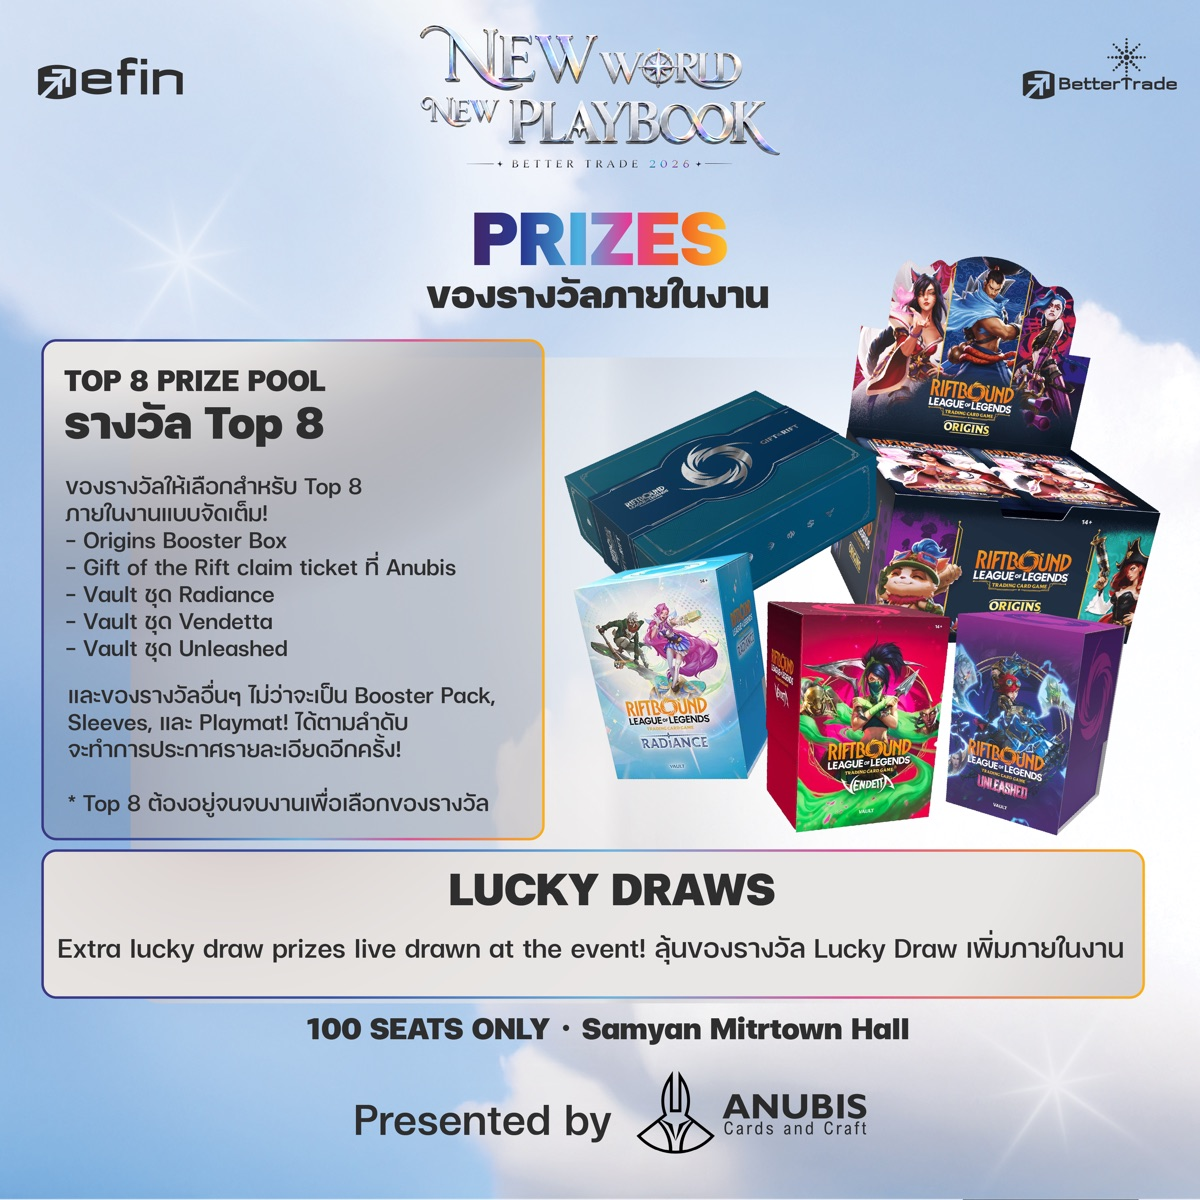
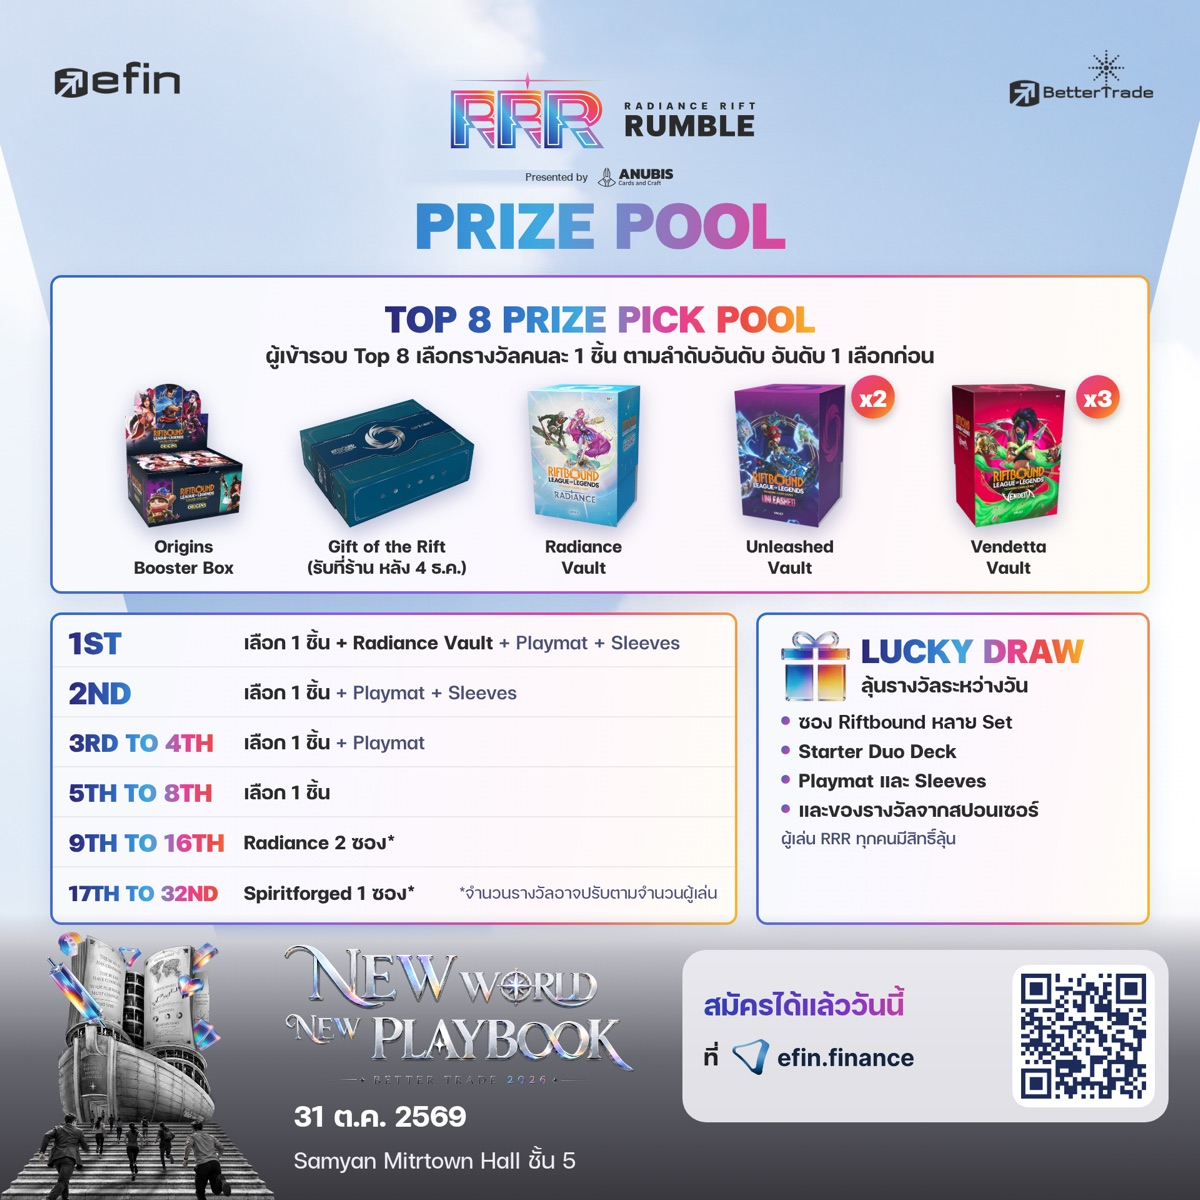
RRR prize pool and venue, Card and Collectibles Carnival vendor call, Gym Battle Oct 12

diff --git a/index.html b/index.html
@@ -190,6 +190,22 @@
   @media (max-width: 960px) { .rrr-grid { grid-template-columns: 1fr; } .rrr-gal { max-width: 560px; } }
   @media (max-width: 560px) { .rrr-facts { grid-template-columns: repeat(2, minmax(0, 1fr)); } .rrr .btns .btn { width: 100%; justify-content: center; } }
 
+  /* ---------- CCC (Card & Collectibles Carnival), inside the RRR band ---------- */
+  .ccc { margin-top: clamp(40px, 6vw, 80px); padding-top: clamp(32px, 5vw, 64px); border-top: 1px solid rgb(255 255 255 / .16); display: grid; grid-template-columns: minmax(0, 1.05fr) minmax(0, .95fr); gap: clamp(24px, 4vw, 64px); align-items: start; }
+  .ccc-logo { display: block; width: min(100%, 340px); height: auto; margin: 0 0 20px; }
+  .ccc h3 { font: 800 clamp(26px, 3.4vw, 44px)/1.05 var(--display); margin: 0 0 14px; color: #fff; }
+  .ccc h3 em { font-style: normal; background: var(--rrr-holo); -webkit-background-clip: text; background-clip: text; color: transparent; }
+  .ccc-vendor { margin-top: 24px; padding: 20px; border-radius: 16px; background: #171B45; border: 1px solid rgb(255 255 255 / .16); }
+  .ccc-vendor h4 { font: 700 18px/1.2 var(--body); margin: 0 0 4px; color: #fff; }
+  .ccc-vendor .big { font: 700 26px/1.1 var(--mono); color: #fff; margin: 8px 0 12px; }
+  .ccc-vendor .big small { font: 400 13px/1.3 var(--body); color: #B9BFEA; display: block; margin-top: 4px; }
+  .ccc-vendor .rrr-get { margin-bottom: 16px; font-size: 14px; }
+  .ccc-pics { display: grid; grid-template-columns: 1fr 1fr; gap: 12px; }
+  .ccc-pics a { display: block; border-radius: 14px; overflow: hidden; padding: 2px; background: var(--rrr-holo); }
+  .ccc-pics img { display: block; width: 100%; height: auto; aspect-ratio: 1 / 1; object-fit: cover; border-radius: 12px; }
+  @media (max-width: 960px) { .ccc { grid-template-columns: 1fr; } .ccc-pics { max-width: 560px; } }
+  @media (max-width: 560px) { .ccc .btns .btn { width: 100%; justify-content: center; } }
+
   /* ---------- hero ---------- */
   .hero { position: relative; overflow: hidden; overflow: clip; contain: paint; }
   .hero::before {
@@ -773,7 +789,7 @@ c-21 -9 -479 -194 -1017 -413 l-979 -397 -337 -1570 c-185 -863 -335 -1574
 
 <div class="ticker" aria-hidden="true">
   <div class="ticker-track" id="ticker">
-    <span>Magic: The Gathering</span><span class="star">✦</span><span>Disney Lorcana</span><span class="star">✦</span><span>Pokémon TCG</span><span class="star">✦</span><span>One Piece</span><span class="star">✦</span><span>Riftbound</span><span class="star">✦</span><span>Radiance Rift Rumble ✦ 31 Oct</span><span class="star">✦</span><span>Events every week</span><span class="star">✦</span><span>มือใหม่ยินดีต้อนรับ</span><span class="star">✦</span><span lang="ja">日本語対応</span><span class="star">✦</span>
+    <span>Magic: The Gathering</span><span class="star">✦</span><span>Disney Lorcana</span><span class="star">✦</span><span>Pokémon TCG</span><span class="star">✦</span><span>One Piece</span><span class="star">✦</span><span>Riftbound</span><span class="star">✦</span><span>Radiance Rift Rumble ✦ 31 Oct</span><span class="star">✦</span><span>Card &amp; Collectibles Carnival ✦ 31 Oct, 1 Nov</span><span class="star">✦</span><span>Events every week</span><span class="star">✦</span><span>มือใหม่ยินดีต้อนรับ</span><span class="star">✦</span><span lang="ja">日本語対応</span><span class="star">✦</span>
   </div>
 </div>
 
@@ -802,7 +818,8 @@ c-21 -9 -479 -194 -1017 -413 l-979 -397 -337 -1570 c-185 -863 -335 -1574
       <ul class="rrr-get">
         <li><span class="l-en">Every player gets 1 Radiance pack, 1 random pack and 1 Radiance Nexus Night Promo Pack</span><span class="l-th" lang="th">ทุกคนได้รับซอง Radiance 1 ซอง ซองสุ่มอีก 1 ซอง และ Radiance Nexus Night Promo Pack 1 ซอง</span><span class="l-ja" lang="ja">参加者全員にRadianceパック1つ、ランダムパック1つ、Radiance Nexus Nightプロモパック1つ</span></li>
         <li><span class="l-en">Plus 2 free Explorer Tickets from efin, worth 200 THB each</span><span class="l-th" lang="th">พร้อมบัตร Explorer Ticket จาก efin ฟรี 2 ใบ มูลค่าใบละ 200 บาท</span><span class="l-ja" lang="ja">さらにefinのExplorerチケット2枚(各200バーツ相当)を無料進呈</span></li>
-        <li><span class="l-en">Top 8 pick prizes in order: Origins Booster Box, Gift of the Rift, Vaults and more. Live Lucky Draws too</span><span class="l-th" lang="th">Top 8 เลือกของรางวัลตามลำดับ ทั้ง Origins Booster Box, Gift of the Rift และ Vault อีกหลายชุด พร้อม Lucky Draw ลุ้นกันสดๆ ในงาน</span><span class="l-ja" lang="ja">Top 8は順位順に賞品を選択。Origins Booster Box、Gift of the Rift、各種Vaultなど。会場でのラッキードローもあります</span></li>
+        <li><span class="l-en">Top 8 draft the prize pool, 1st picks first: Origins Booster Box, Gift of the Rift, Radiance Vault, 2 Unleashed Vaults, 3 Vendetta Vaults. 1st also takes a Radiance Vault, playmat and sleeves</span><span class="l-th" lang="th">Top 8 เลือกรางวัลใหญ่คนละ 1 ชิ้น อันดับ 1 เลือกก่อน มีทั้ง Origins Booster Box, Gift of the Rift, Radiance Vault, Unleashed Vault 2 ชุด และ Vendetta Vault 3 ชุด อันดับ 1 รับ Radiance Vault, Playmat และ Sleeves เพิ่มด้วย</span><span class="l-ja" lang="ja">Top 8は1位から順に賞品をドラフト。Origins Booster Box、Gift of the Rift、Radiance Vault、Unleashed Vault×2、Vendetta Vault×3。1位にはさらにRadiance Vault、プレイマット、スリーブ</span></li>
+        <li><span class="l-en">9th to 16th get 2 Radiance packs, 17th to 32nd get 1 Spiritforged pack (may be adjusted by player count). Lucky Draws all day for every player</span><span class="l-th" lang="th">อันดับ 9 ถึง 16 รับ Radiance 2 ซอง อันดับ 17 ถึง 32 รับ Spiritforged 1 ซอง (อาจปรับตามจำนวนผู้เล่น) และมี Lucky Draw ให้ลุ้นตลอดวันสำหรับผู้เล่นทุกคน</span><span class="l-ja" lang="ja">9位から16位はRadiance 2パック、17位から32位はSpiritforged 1パック(参加人数により変更の場合あり)。全プレイヤー対象のラッキードローも終日開催</span></li>
       </ul>
       <div class="countdown" id="rrr-cd" data-at="2026-10-31T10:00:00+07:00"></div>
       <div class="btns">
@@ -810,9 +827,9 @@ c-21 -9 -479 -194 -1017 -413 l-979 -397 -337 -1570 c-185 -863 -335 -1574
         <a class="btn btn-ghost" href="https://m.me/AnubisCardsandCraft" target="_blank" rel="noopener"><svg><use href="#i-msg"/></svg><span class="l-en">Ask us on Facebook chat</span><span class="l-th" lang="th">สอบถามทางแชท Facebook</span><span class="l-ja" lang="ja">Facebookチャットで質問</span></a>
       </div>
       <p class="rrr-note">
-        <span class="l-en">This one is not at the shop. Venue: Samyan Mitrtown Hall, 5th floor (MRT Sam Yan). Times may shift on the day.</span>
-        <span class="l-th" lang="th">งานนี้ไม่ได้จัดที่ร้านนะครับ สถานที่คือสามย่านมิตรทาวน์ฮอลล์ ชั้น 5 (MRT สามย่าน) เวลาอาจปรับเปลี่ยนตามความเหมาะสมหน้างาน</span>
-        <span class="l-ja" lang="ja">会場は店舗ではなく、サムヤーン・ミットタウン・ホール5階(MRTサムヤーン駅)です。当日の進行により時間が変わる場合があります。</span>
+        <span class="l-en">This one is not at the shop. Venue: The Mitr Ting Room, 5th floor, Samyan Mitrtown Hall (MRT Sam Yan). Gift of the Rift is claimed at Anubis after December 4. Times may shift on the day.</span>
+        <span class="l-th" lang="th">งานนี้ไม่ได้จัดที่ร้านนะครับ สถานที่คือ The Mitr Ting Room ชั้น 5 สามย่านมิตรทาวน์ฮอลล์ (MRT สามย่าน) Gift of the Rift รับที่ร้าน Anubis หลัง 4 ธ.ค. เวลาอาจปรับเปลี่ยนตามความเหมาะสมหน้างาน</span>
+        <span class="l-ja" lang="ja">会場は店舗ではなく、サムヤーン・ミットタウン・ホール5階「The Mitr Ting Room」(MRTサムヤーン駅)です。Gift of the Riftは12月4日以降にAnubis店舗でお渡しします。当日の進行により時間が変わる場合があります。</span>
       </p>
     </div>
     <div class="rrr-gal reveal">
@@ -822,6 +839,46 @@ c-21 -9 -479 -194 -1017 -413 l-979 -397 -337 -1570 c-185 -863 -335 -1574
         <button type="button" aria-pressed="false" data-src="img/rrr/rrr-02.jpg" aria-label="Graphic 2"><img src="img/rrr/rrr-02.jpg" alt="" loading="lazy" width="300" height="300"></button>
         <button type="button" aria-pressed="false" data-src="img/rrr/rrr-03.jpg" aria-label="Graphic 3"><img src="img/rrr/rrr-03.jpg" alt="" loading="lazy" width="300" height="300"></button>
         <button type="button" aria-pressed="false" data-src="img/rrr/rrr-04.jpg" aria-label="Graphic 4"><img src="img/rrr/rrr-04.jpg" alt="" loading="lazy" width="300" height="300"></button>
+      </div>
+    </div>
+  </div>
+  <div class="wrap">
+    <div class="ccc" id="ccc">
+      <div class="reveal">
+        <p class="rrr-kicker">✦ <span class="l-en">Same weekend, same hall</span><span class="l-th" lang="th">สุดสัปดาห์เดียวกัน ฮอลล์เดียวกัน</span><span class="l-ja" lang="ja">同じ週末、同じ会場</span></p>
+        <img class="ccc-logo" src="img/ccc/ccc-logo.svg" alt="Card &amp; Collectibles Carnival" width="1407" height="440">
+        <h3>
+          <span class="l-en">The Rift is one day. <em>The Carnival is two.</em></span>
+          <span class="l-th" lang="th">ทัวร์นาเมนต์แข่งวันเดียว <em>แต่ Carnival เปิดสองวัน</em></span>
+          <span class="l-ja" lang="ja">大会は1日。<em>カーニバルは2日間。</em></span>
+        </h3>
+        <p class="rrr-lede">
+          <span class="l-en">Card &amp; Collectibles Carnival (CCC) is our cards and collectibles market for every game, inside BetterTrade 2026 by efin. Card shops, collectible stores, grading services and artists, all in the DRESSROSA zone right by the escalators.</span>
+          <span class="l-th" lang="th">Card &amp; Collectibles Carnival (CCC) คือตลาดการ์ดและของสะสมทุกเกม ภายในงาน BetterTrade 2026 โดย efin มีทั้งร้านการ์ด ร้านของสะสม บริการเกรดการ์ด และศิลปิน อยู่ในโซน DRESSROSA ติดบันไดเลื่อนครับ</span>
+          <span class="l-ja" lang="ja">Card &amp; Collectibles Carnival(CCC)は、efin主催「BetterTrade 2026」内で開催する、全ゲーム対象のカードとコレクティブルのマーケットです。カードショップ、コレクティブル店、グレーディングサービス、アーティストが、エスカレーター横のDRESSROSAゾーンに集まります。</span>
+        </p>
+        <dl class="rrr-facts">
+          <div><dt><span class="l-en">Dates</span><span class="l-th" lang="th">วันที่</span><span class="l-ja" lang="ja">日程</span></dt><dd><span class="l-en">31 Oct, 1 Nov</span><span class="l-th" lang="th">31 ต.ค. และ 1 พ.ย.</span><span class="l-ja" lang="ja">10/31・11/1</span><small><span class="l-en">Sat and Sun</span><span class="l-th" lang="th">เสาร์และอาทิตย์</span><span class="l-ja" lang="ja">土・日</span></small></dd></div>
+          <div><dt><span class="l-en">Opens</span><span class="l-th" lang="th">เปิด</span><span class="l-ja" lang="ja">開場</span></dt><dd>10:00<small><span class="l-en">Sat to 18:30, Sun to 17:30</span><span class="l-th" lang="th">เสาร์ถึง 18:30 น. อาทิตย์ถึง 17:30 น.</span><span class="l-ja" lang="ja">土 18:30まで、日 17:30まで</span></small></dd></div>
+          <div><dt><span class="l-en">Booths</span><span class="l-th" lang="th">บูธ</span><span class="l-ja" lang="ja">ブース</span></dt><dd>50<small><span class="l-en">every card game</span><span class="l-th" lang="th">ทุกเกมการ์ด</span><span class="l-ja" lang="ja">全カードゲーム</span></small></dd></div>
+          <div><dt><span class="l-en">Venue</span><span class="l-th" lang="th">สถานที่</span><span class="l-ja" lang="ja">会場</span></dt><dd><span class="l-en">Samyan Mitrtown</span><span class="l-th" lang="th">สามย่านมิตรทาวน์</span><span class="l-ja" lang="ja">サムヤーン</span><small><span class="l-en">Hall, 5th floor</span><span class="l-th" lang="th">ฮอลล์ ชั้น 5</span><span class="l-ja" lang="ja">ミットタウン・ホール5階</span></small></dd></div>
+        </dl>
+        <div class="ccc-vendor" id="ccc-vendor">
+          <h4><span class="l-en">Calling all shops: book a booth</span><span class="l-th" lang="th">เปิดรับร้านค้าออกบูธ</span><span class="l-ja" lang="ja">出店者募集中</span></h4>
+          <p class="big">5,000 THB<small><span class="l-en">for both days. Payment closes Thu 15 Oct.</span><span class="l-th" lang="th">สำหรับ 2 วัน ปิดรับชำระวันพฤหัสบดีที่ 15 ต.ค.</span><span class="l-ja" lang="ja">2日間の料金。お支払い締切は10月15日(木)。</span></small></p>
+          <ul class="rrr-get">
+            <li><span class="l-en">Table 1.20 x 0.60 m with cloth, 1 chair (up to 2 seats), shared power strip</span><span class="l-th" lang="th">โต๊ะ 1.20 x 0.60 ม. พร้อมผ้าคลุม เก้าอี้ 1 ตัว (นั่งประจำบูธได้สูงสุด 2 ที่) ปลั๊กไฟแบบรางใช้ร่วมกัน</span><span class="l-ja" lang="ja">テーブル(1.20 x 0.60 m、クロス付き)、椅子1脚(最大2席)、共用電源タップ</span></li>
+            <li><span class="l-en">1 Exhibitor badge and 10 two-day Explorer passes for your regulars</span><span class="l-th" lang="th">บัตรผู้ออกบูธ 1 ใบ และบัตร Explorer เข้างานได้ 2 วัน 10 ใบ ไว้ชวนลูกค้าประจำ</span><span class="l-ja" lang="ja">出店者バッジ1枚と、常連のお客様用の2日間Explorerパス10枚</span></li>
+            <li><span class="l-en">Pay in full upfront, first paid picks first. Open both days. No random sales (Oripa, gacha, mystery boxes). Factory sealed product is fine</span><span class="l-th" lang="th">ชำระเต็มจำนวนล่วงหน้า ร้านที่ชำระก่อนได้เลือกตำแหน่งก่อน เปิดบูธครบทั้งสองวัน งดการขายแบบสุ่มทุกรูปแบบ เช่น Oripa กาชา กล่องสุ่ม (ซองและกล่องซีลจากผู้ผลิตขายได้ตามปกติ)</span><span class="l-ja" lang="ja">全額前払い、支払い順にブース位置を選択。2日間とも出店必須。オリパ・ガチャ・福袋などのランダム販売は不可(メーカー未開封品は可)</span></li>
+          </ul>
+          <div class="btns">
+            <a class="btn btn-holo" href="https://m.me/AnubisCardsandCraft" target="_blank" rel="noopener"><svg><use href="#i-msg"/></svg><span class="l-en">Book on Facebook chat</span><span class="l-th" lang="th">ทักแชทจองบูธ</span><span class="l-ja" lang="ja">Facebookチャットで申し込む</span></a>
+          </div>
+        </div>
+      </div>
+      <div class="ccc-pics reveal">
+        <a href="img/ccc/ccc-vendors.jpg" target="_blank" rel="noopener"><img src="img/ccc/ccc-vendors.jpg" alt="Card and Collectibles Carnival: calling all shops, 50 booths" loading="lazy" width="1200" height="1200"></a>
+        <a href="img/ccc/ccc-booth.jpg" target="_blank" rel="noopener"><img src="img/ccc/ccc-booth.jpg" alt="Card and Collectibles Carnival booth package" loading="lazy" width="1200" height="1200"></a>
       </div>
     </div>
   </div>
@@ -1400,7 +1457,8 @@ c-21 -9 -479 -194 -1017 -413 l-979 -397 -337 -1570 c-185 -863 -335 -1574
   /* ---------- RRR spotlight ---------- */
   (() => {
     const sec = $('#rrr'); if (!sec) return;
-    if (todayYMD > '2026-10-31') { sec.hidden = true; return; }
+    if (todayYMD > '2026-11-01') { sec.hidden = true; return; }
+    if (todayYMD > '2026-10-15') { const v = $('#ccc-vendor'); if (v) v.hidden = true; }
     $$('#rrr-thumbs button').forEach(b => b.addEventListener('click', () => {
       $('#rrr-main').src = b.dataset.src;
       $$('#rrr-thumbs button').forEach(x => x.setAttribute('aria-pressed', String(x === b)));

diff --git a/events.js b/events.js
@@ -8,7 +8,7 @@
   games:     label + accent color (CI v3.0 game accents).
 */
 window.ANUBIS = {
-  updated: "2026-10-05",
+  updated: "2026-10-10",
   source: "https://www.facebook.com/AnubisCardsandCraft",
 
   games: {
@@ -32,25 +32,7 @@ window.ANUBIS = {
 
   // link: optional sign-up URL (https only). LINE links get a "Sign up in the LINE group" button, others "Sign up".
   dated: [
-    // Week of Oct 5 to 11 (FB weekly post "PACKED SCHEDULE THIS WEEK!", 2026-10-05; Riftbound links from Philly)
-    { date: "2026-10-05", game: "pokemon", title: "Gym Battle", time: "19:00", fee: "150 THB",
-      detail: "Entry includes 1 pack of 30th Celebration (TH). Swiss 3 rounds. 32 players. Free promo cards for everyone who shows up. Walk in." },
-    { date: "2026-10-06", game: "lorcana", title: "Casual On-Demand", time: "19:30", fee: "250 THB",
-      detail: "Core Constructed (Set 9 to 13), Coconut, or Pack Rush (450 THB). New players at 19:00 for Learn to Play. No sign-up needed." },
-    { date: "2026-10-07", game: "mtg", title: "Casual Commander", time: "19:00", fee: "Open 1 pack",
-      detail: "Commander Bracket 3, come and have fun. Walk in.",
-      img: "img/events/casual-commander.jpg" },
-    { date: "2026-10-07", game: "riftbound", title: "Nexus Night 1v1 (Bo1)", time: "20:00", fee: "300 THB",
-      detail: "Standard Constructed. Max 5 rounds. 32 players. Sign up on Playriftbound with your Riot ID.",
-      link: "https://playriftbound.com/en-US/events/117364848626607688" },
-    { date: "2026-10-08", game: "lorcana", title: "Casual Core Constructed", time: "19:30", fee: "250 THB",
-      detail: "Core Constructed (Set 9 to 13) or Coconut. Learn to Play at 19:00. Walk-ins welcome." },
-    { date: "2026-10-09", game: "mtg", title: "Reality Fractured Store Championship", time: "19:00", fee: "300 THB", major: true,
-      detail: "Standard Constructed, Swiss. Doorgift: 1 Reality Fractured Play Booster and a Thought Scour promo. Top 8 get a Mastermind's Acquisition promo. 1st: 2 Play Boosters, the Jace Reawakened promo and 1 foil promo pack. 2nd to 3rd: 1 Play Booster and 1 non-foil promo pack. 4th: 1 non-foil promo pack. Minimum 8 players. Registration opens Mon Oct 5, 14:00 in the MTG LINE group.",
-      link: "https://line.me/ti/g/RfqEewSVSC", img: "img/events/mtg-store-championship.jpg" },
-    { date: "2026-10-09", game: "riftbound", title: "Casual Best-of-1", time: "20:00", fee: "250 THB",
-      detail: "Casual Night for newbies and for testing new decks. 4 rounds. 24 players. No Nexus Night promo pack. Sign up on Playriftbound with your Riot ID.",
-      link: "https://playriftbound.com/en-US/events/117364866640292072" },
+    // Week of Oct 5 to 11 (FB weekly post, 2026-10-05). Earlier days of the week dropped on 2026-10-10.
     { date: "2026-10-10", game: "lorcana", title: "Last Core before Set 14", time: "14:00", fee: "300 THB", major: true,
       detail: "One last serious run at the Set 13 meta. Core Constructed (Set 9 to 13), Best of 1, 5 rounds. 32 players. Doorgift: 1 booster pack. Prizes: 1st 5 packs, 2nd 3 packs, 3rd to 4th 2 packs, 5th to 8th 1 pack (may be adjusted under 32 players). Registration opens Tue Oct 6, 12:00 in the Lorcana OpenChat note.",
       link: "https://line.me/ti/g2/0ZzAtnVpBzwzbNoA7lRW3YPKL8xV7fzdire42g", img: "img/events/last-core-before-set-14.jpg" },
@@ -58,9 +40,13 @@ window.ANUBIS = {
       detail: "Standard Constructed, Best of 3. 4 rounds. 32 players. Sign up on Playriftbound with your Riot ID.",
       link: "https://playriftbound.com/en-US/events/117364876978871913" },
 
-    // Radiance Rift Rumble at BetterTrade 2026 (FB post "THE FULL DETAILS ARE HERE!", 2026-10-02). Also has its own spotlight section in index.html.
+    // Gym Battle (FB post "Welcome back to GYM-BATTLE", 2026-10-10)
+    { date: "2026-10-12", game: "pokemon", title: "Gym Battle", time: "19:00", fee: "150 THB",
+      detail: "Standard Regulation, 60-card deck. Swiss 3 rounds, Best of 1, 25 minutes per round. Door gift: 1 pack of 30th Celebration (TH) and a Pikachu GAME ON card. Prizes: 1 to 3 promo packs by match wins, plus extra 30th Celebration packs. Walk in." },
+
+    // Radiance Rift Rumble at BetterTrade 2026 (FB posts 2026-10-02 and "TOP 8 PRIZE PICK POOL", 2026-10-10). Also has its own spotlight section in index.html.
     { date: "2026-10-31", game: "riftbound", title: "Radiance Rift Rumble", time: "10:00", fee: "490 THB", major: true,
-      detail: "Our biggest Riftbound tournament, at BetterTrade 2026 by efin. Not at the shop: Samyan Mitrtown Hall. Check in 10:00 to 10:30. Standard Constructed, 7 rounds of Best of 1 (10:30 to 16:40), then Top 8 Best of 3 single elimination (16:40 to 19:40). 100 seats. Every player gets 1 Radiance pack, 1 random pack (Origins, Spiritforged or Unleashed), 1 Radiance Nexus Night Promo Pack and 2 free Explorer Tickets from efin. Top 8 pick prizes in order: Origins Booster Box, Gift of the Rift, Radiance, Vendetta and Unleashed Vaults and more. Live Lucky Draws. Sign up at efin.finance.",
+      detail: "Our biggest Riftbound tournament, at BetterTrade 2026 by efin. Not at the shop: The Mitr Ting Room, 5th floor, Samyan Mitrtown Hall. Check in 10:00 to 10:30. Standard Constructed, 7 rounds of Best of 1 (10:30 to 16:40), then Top 8 Best of 3 single elimination (16:40 to 19:40). 100 seats. Every player gets 1 Radiance pack, 1 random pack (Origins, Spiritforged or Unleashed), 1 Radiance Nexus Night Promo Pack and 2 free Explorer Tickets from efin. Top 8 draft the prize pool, 1st picks first: Origins Booster Box, Gift of the Rift (claimed at Anubis after December 4), Radiance Vault, 2 Unleashed Vaults, 3 Vendetta Vaults. 1st also gets a Radiance Vault, playmat and sleeves. 2nd: playmat and sleeves. 3rd to 4th: playmat. 9th to 16th: 2 Radiance packs. 17th to 32nd: 1 Spiritforged pack (9th to 32nd may be adjusted by player count). Lucky Draws all day. Sign up at efin.finance.",
       link: "https://www.efin.finance/events/better-trade/better-trade2026/buy-ticket/master-class/1-day", img: "img/events/radiance-rift-rumble.jpg" }
   ]
 };
